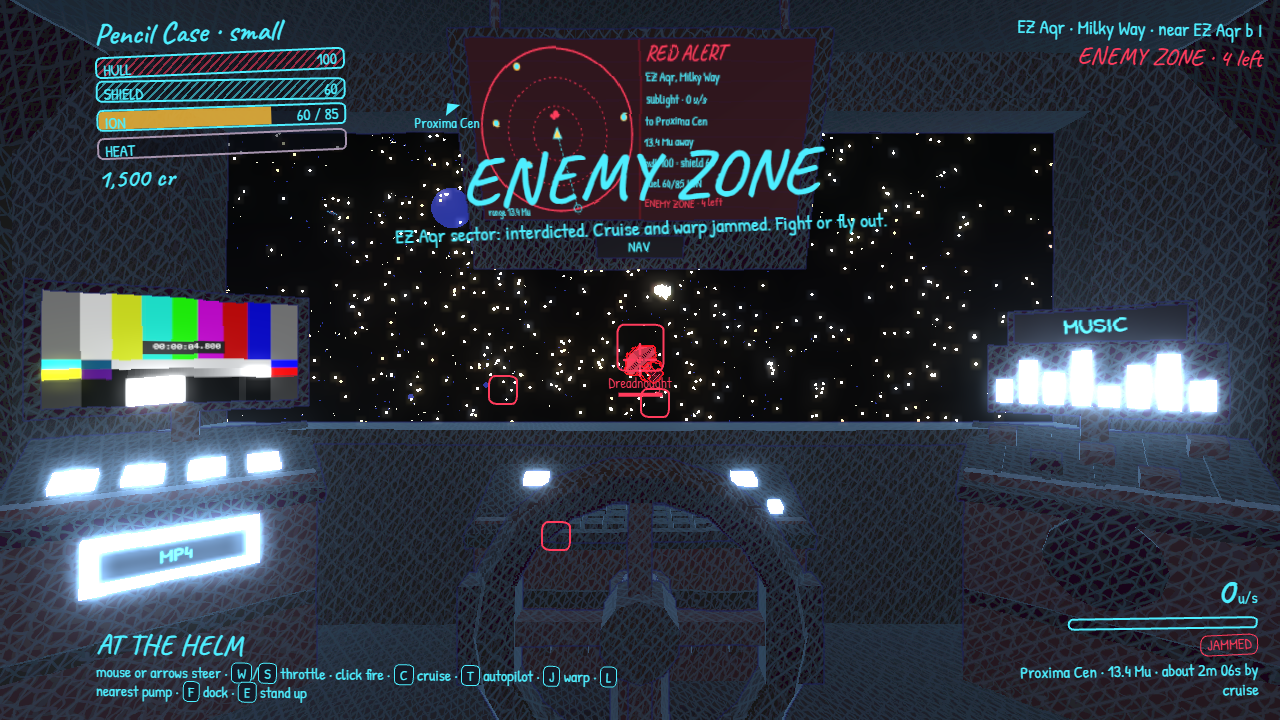
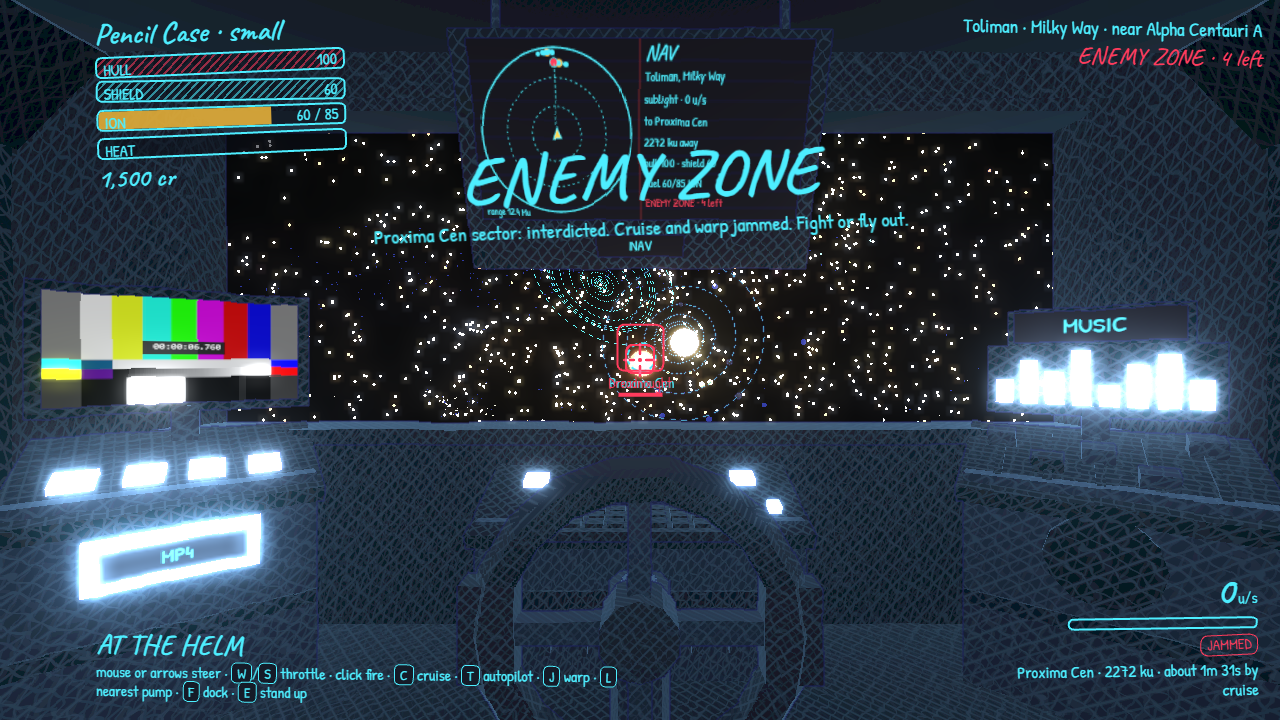
Gravity, and a black hole that actually keeps you
Moons, planets, stars and black holes now pull. The pull is arcade-scaled:
it begins at a multiple of the body's own radius and falls off with the
square of the distance to the surface, so it is felt in flight at every zoom
the game uses without a real gravitational constant being either invisible
at planet scale or infinite at galactic scale.

Black holes have an event horizon at 2.2 radii. Inside it the ship is taken
over: throttle and steering stop answering, it is dragged in nose first and
stretched as it goes, and then it is over. Burning hard has to happen before
the horizon, not inside it.

Cruise drops out deep in a well, and the HUD names the body pulling on you.

Tests 45/45: a drifting ship falls toward Earth (4500 to 4251 units, gaining
19 u/s), and a black hole catches a ship at full throttle with boost held and
kills it.

Claude-Session: https://claude.ai/code/session_01SguKWwA5VxaaPTmJDLzJCo

diff --git a/js/game.js b/js/game.js
@@ -12,6 +12,17 @@ import { UI } from './ui.js';
 import { glow, ink, screen, PAL } from './mats.js';
 import { clamp, damp, smooth, vdist, fmtU, fmtTime, TAU } from './util.js';
 
+
+// reach: multiples of the body's radius where the pull begins. accel: u/s^2 at
+// the surface. event: black holes only, the radius inside which nothing gets
+// out. Deliberately arcade - felt in flight, not physically correct.
+export const GRAVITY = {
+  moon: { reach: 5, accel: 26 },
+  planet: { reach: 7, accel: 60 },
+  star: { reach: 10, accel: 150 },
+  blackhole: { reach: 30, accel: 900, event: 2.2 },
+};
+
 export const EQUIP = {
   laser: { name: 'Sharper nibs', desc: 'Laser damage +35% a level', prices: [1500, 3400, 6800] },
   cooler: { name: 'Eraser-dust coolant', desc: 'Laser heat capacity +40% a level', prices: [1200, 2600, 5200] },
@@ -697,6 +708,7 @@ export class Game {
     else if (this.mode === 'title') sh.q.multiply(qYP(dt * 0.004, 0, 0, Q1));
     this.updateShip(dt);
     const ctx = this.u.update(sh.pos, this.t, dt);
+    if (this.mode !== 'title') this.gravity(ctx, dt);
     this.collide(ctx, dt);
     this.updateZones(dt);
     this.updateCombat(dt);
@@ -903,6 +915,70 @@ export class Game {
       }
     }
     sh.vel.set(0, 0, 0);
+  }
+
+  // Arcade gravity. reach is a multiple of the body's own radius where the
+  // pull starts; accel is the acceleration in u/s squared at the surface, and
+  // it falls off as one over the square of the distance to the surface, so it
+  // is always finite and scales with the body. event is black holes only:
+  // inside that many radii nothing escapes.
+  gravity(ctx, dt) {
+    const sh = this.ship;
+    let worst = null;
+    for (const b of ctx.bodies) {
+      const kind = b.kind === 'moon' ? 'moon'
+        : b.kind === 'planet' || b.kind === 'dwarf planet' ? 'planet'
+        : b.kind === 'star' ? 'star'
+        : b.kind === 'sight' && b.sight && b.sight.kind === 'blackhole' ? 'blackhole' : null;
+      if (!kind) continue;
+      const g = GRAVITY[kind];
+      const r = b.r > 0 ? b.r : (b.sight && b.sight.R) || 0;
+      if (!(r > 0)) continue;
+      const dx = b.pos.x - sh.pos.x, dy = b.pos.y - sh.pos.y, dz = b.pos.z - sh.pos.z;
+      const dist = Math.sqrt(dx * dx + dy * dy + dz * dz);
+      const d = dist - r;
+      if (!(dist > 1e-6) || d > g.reach * r) continue;
+      const depth = 1 - Math.max(0, d) / (g.reach * r);
+      if (!worst || depth > worst.depth) worst = { b, kind, depth, d, r, g };
+      // Falling in: from here no throttle helps, so the ship is taken over.
+      if (g.event && d < r * g.event && !sh.spaghetti) {
+        sh.spaghetti = { t: 0, hole: b };
+        this.ui.big('EVENT HORIZON', 'Nothing gets out of here. Not even ink.');
+        audio.sfx('hit');
+      }
+      const dd = Math.max(d, r * 0.05);
+      const a = Math.min(g.accel * (r / dd) * (r / dd), g.accel * 400);
+      const k = (a * dt) / dist;
+      sh.vel.x += dx * k; sh.vel.y += dy * k; sh.vel.z += dz * k;
+      // Cruise cannot hold a course through a gravity well.
+      // Deep in the well only: an orbit that merely passes through the outer
+      // reaches must still be crossable at cruise.
+      if (sh.cruise && d < g.reach * r * 0.25) {
+        sh.cruise = false; sh.cs = 0;
+        this.ui.toast(`${b.name} pulled you out of cruise.`);
+      }
+    }
+    this.grav = worst ? { name: worst.b.name, kind: worst.kind, depth: worst.depth } : null;
+    if (sh.spaghetti) this.spaghettify(dt);
+  }
+
+  // The infall: input is ignored, the ship is dragged in nose first and
+  // stretched along the way, and then it is over.
+  spaghettify(dt) {
+    const sh = this.ship, sp = sh.spaghetti, b = sp.hole;
+    sp.t += dt;
+    const dx = b.pos.x - sh.pos.x, dy = b.pos.y - sh.pos.y, dz = b.pos.z - sh.pos.z;
+    const dist = Math.sqrt(dx * dx + dy * dy + dz * dz) || 1;
+    const want = Math.min(8000, 2000 + sp.t * 1500);
+    sh.vel.set((dx / dist) * want, (dy / dist) * want, (dz / dist) * want);
+    sh.throttle = 0; sh.cruise = false; sh.warp = null; sh.auto = null;
+    if (this.shipRoot) this.shipRoot.scale.set(1, 1, 1 + Math.min(3, sp.t * 1.4));
+    const r = b.r > 0 ? b.r : (b.sight && b.sight.R) || 1;
+    if (sp.t > 2.2 || dist - r < r * 0.15) {
+      sh.spaghetti = null;
+      if (this.shipRoot) this.shipRoot.scale.set(1, 1, 1);
+      this.die('blackhole');
+    }
   }
 
   collide(ctx, dt) {
@@ -1700,7 +1776,9 @@ export class Game {
       tg ? `${fmtU(vdist(tg.pos(this.t), sh.pos))} away` : '',
       `hull ${Math.round(sh.hull)} · shield ${Math.round(sh.shield)}`,
       `fuel ${sh.fuel.toFixed(0)}/${this.stat('tank')} ${this.def.fuel}`,
-      this.zone ? `ENEMY ZONE · ${left} left` : 'sector quiet',
+      this.grav && this.grav.depth > 0.25
+        ? `${this.grav.kind === 'blackhole' ? 'EVENT HORIZON' : 'GRAVITY'} · ${this.grav.name}`
+        : this.zone ? `ENEMY ZONE · ${left} left` : 'sector quiet',
     ];
     lines.forEach((l, i) => { g.fillStyle = i === 6 && this.zone ? '#ff3b5c' : '#4deeff'; g.fillText(l.slice(0, 30), 264, 56 + i * 30); });
     this.navTex.needsUpdate = true;
